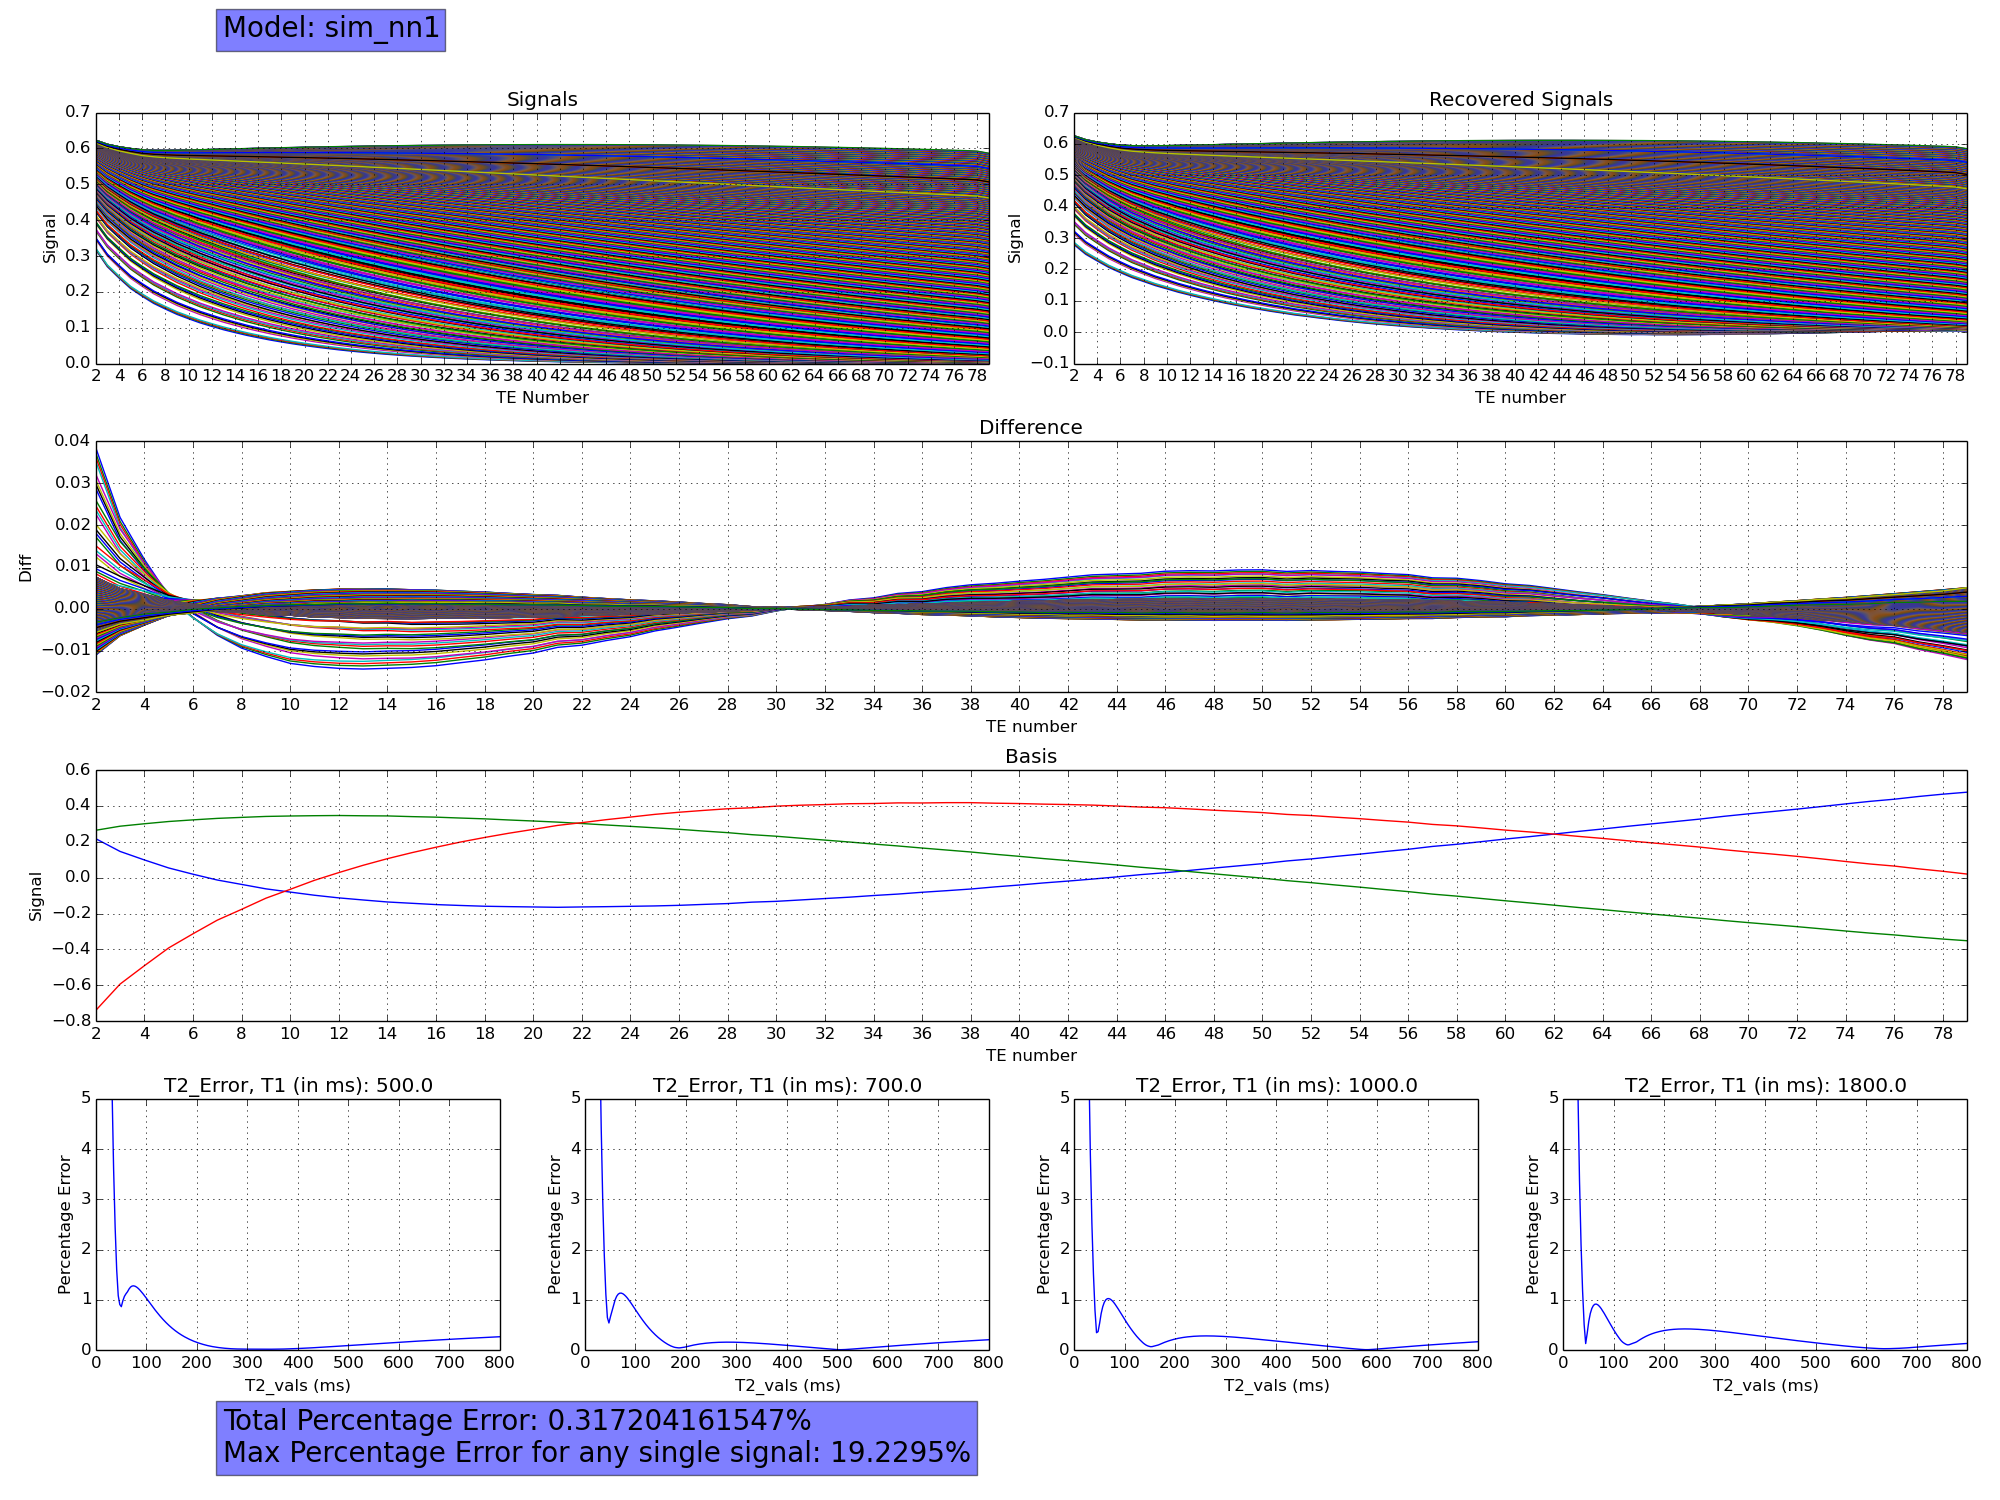
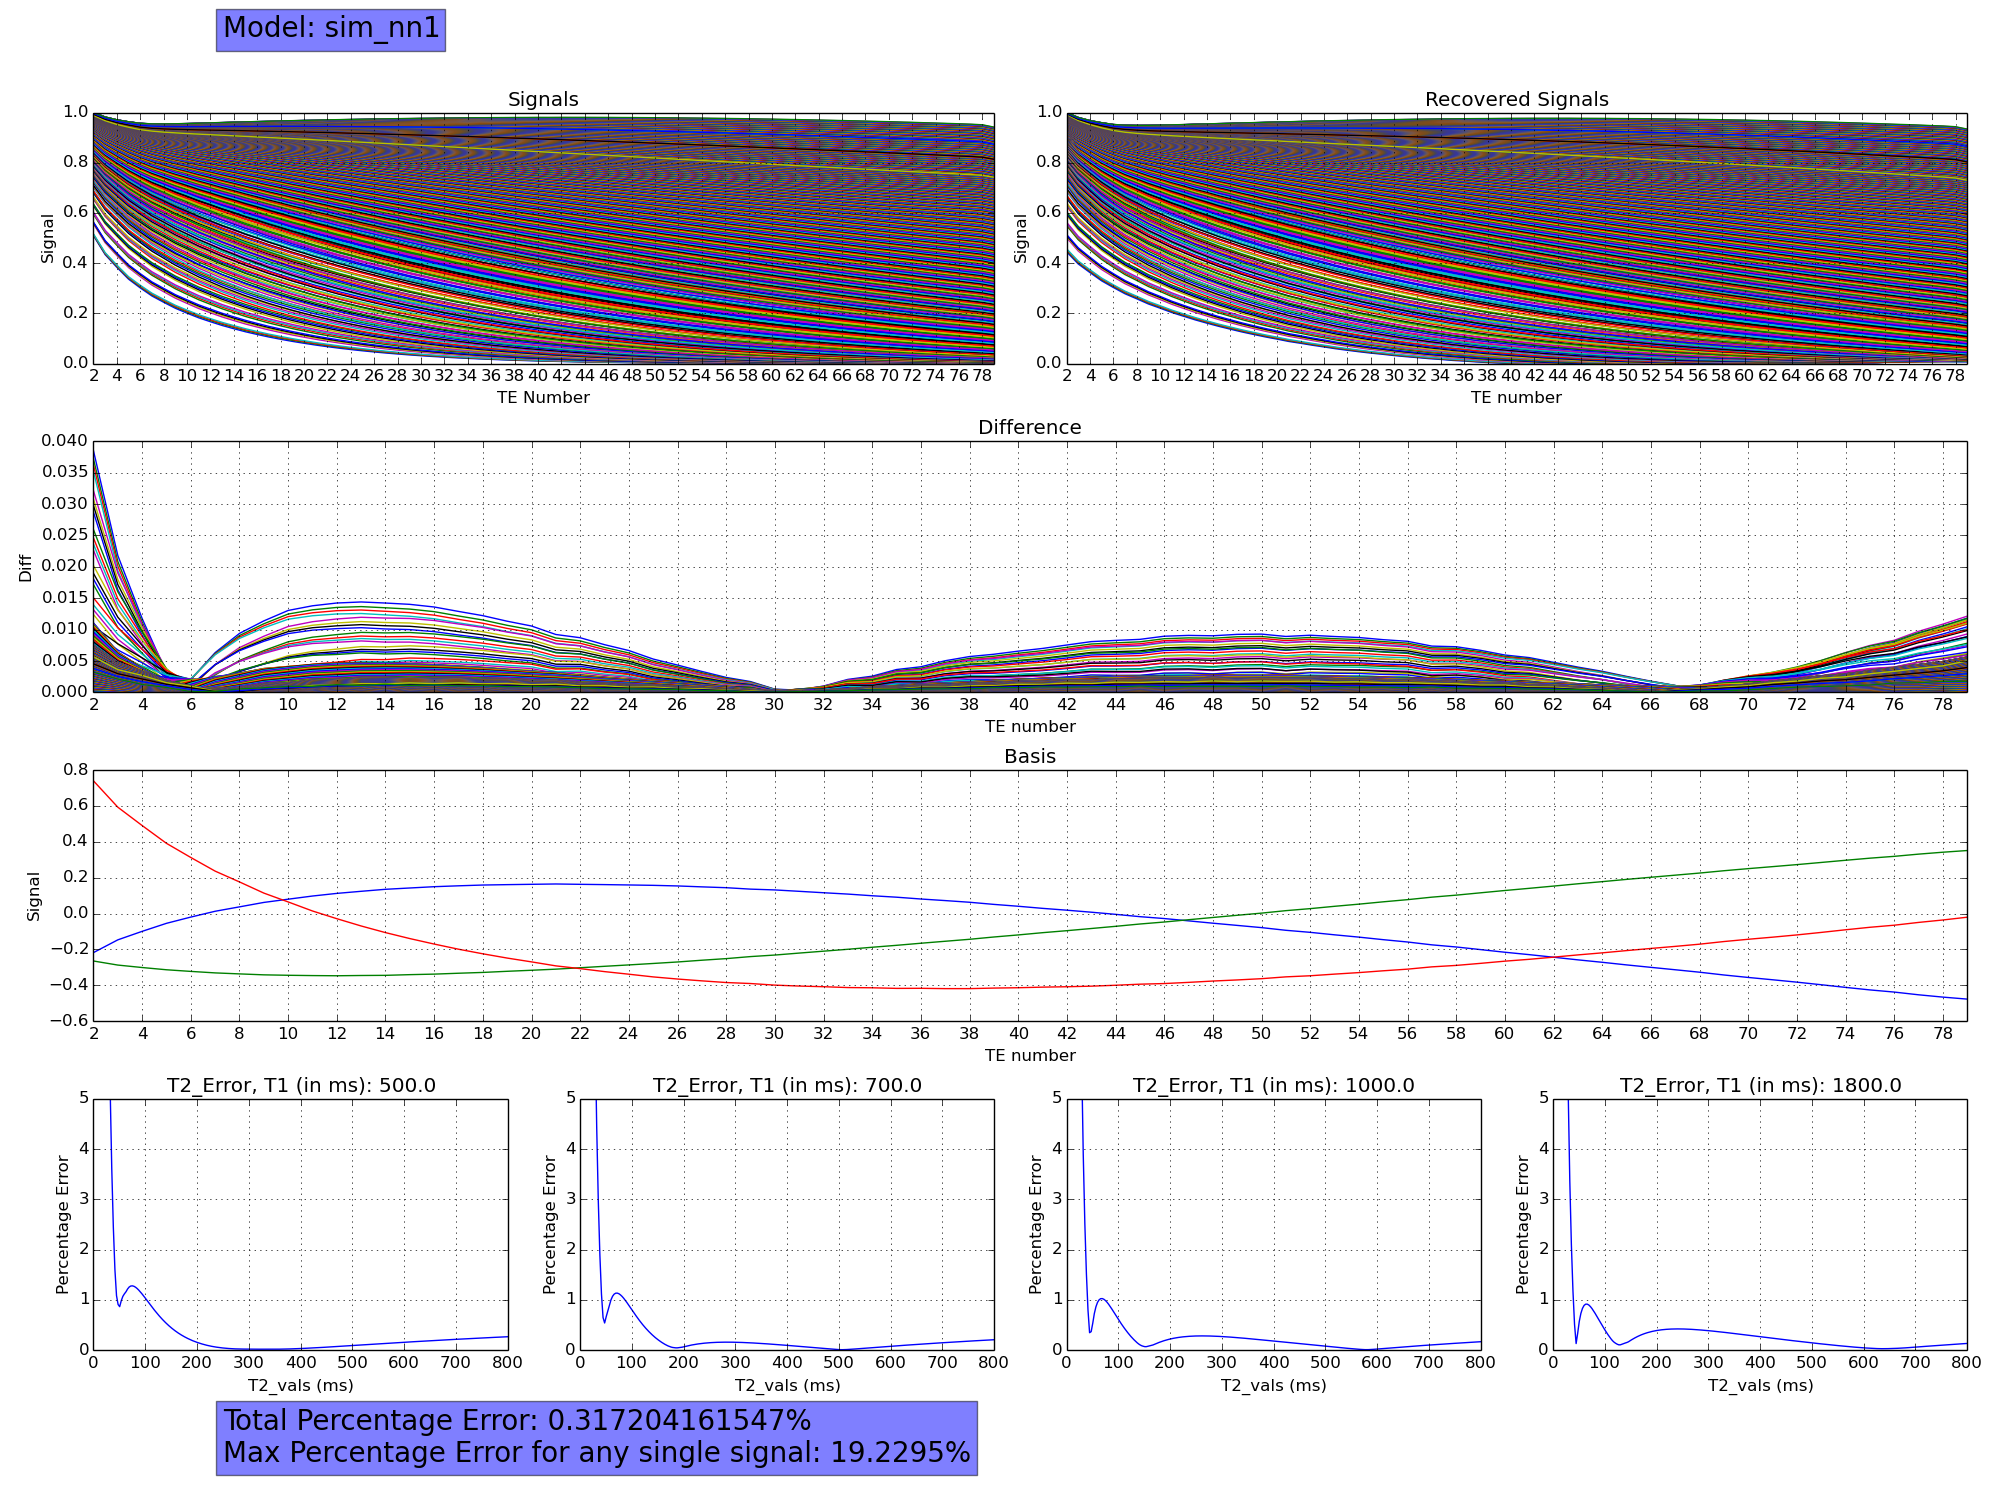
most things done from the todolist

diff --git a/src/plot.py b/src/plot.py
@@ -28,6 +28,8 @@ def mksv_plot(ax, data, title, xlabel, ylabel, xstart=0, ylim=None, other_label=
     ax.set_title(title)
     ax.set_xlabel(xlabel)
     ax.set_ylabel(ylabel)
+    if ylim:
+      ax.set_ylim(ylim)
   elif type(data) == tuple:
     assert len(data) >= 3 and type(ax == list)
     x, t, y = [list(matrix_to_1Darray(elm)) for elm in data]
@@ -52,10 +54,10 @@ def plot_simulation(U, k, X, X_hat, model_name, T1vals, T2vals, e2s, path):
   ax3 = plt.subplot2grid((4, span), (1,0), colspan=span)
   ax4 = plt.subplot2grid((4, span), (2,0), colspan=span)
   ax5 = [plt.subplot2grid((4, span), (3, i)) for i in range(span)]
-  mksv_plot(ax1, X, 'Signals', 'TE Number', 'Signal', xstart=e2s)
-  mksv_plot(ax2, X_hat, 'Recovered Signals', 'TE number', 'Signal', xstart=e2s)
-  mksv_plot(ax3, X-X_hat, 'Difference', 'TE number', 'Diff', xstart=e2s)
-  mksv_plot(ax4, U[:, :k], 'Basis', 'TE number', 'Signal', xstart=e2s)
+  mksv_plot(ax1, X/np.max(X), 'Signals', 'TE Number', 'Signal', xstart=e2s, ylim=[0, 1])
+  mksv_plot(ax2, X_hat/np.max(X_hat), 'Recovered Signals', 'TE number', 'Signal', xstart=e2s, ylim=[0, 1])
+  mksv_plot(ax3, abs(X-X_hat), 'Difference', 'TE number', 'Diff', xstart=e2s)
+  mksv_plot(ax4, -U[:, :k], 'Basis', 'TE number', 'Signal', xstart=e2s)
   mksv_plot(ax5, (T2vals * 1000, T1vals * 1000, pnorm), 'T2_Error', 'T2_vals (ms)', 'Percentage Error', other_label="T1 (in ms): ", ylim=[0,5])
   fig.tight_layout()
   plt.subplots_adjust(top=0.925, bottom=0.1)
@@ -69,14 +71,20 @@ def plot_cfl_signals(U, k, X, X_hat, model_name, e2s, path):
   half = 1
   pnorm, fro_perc_err = get_metric(X, X_hat, disp=False)
   fig = plt.figure(figsize=img_size)
-  ax1 = plt.subplot2grid((3, span), (0,0), colspan=half)
-  ax2 = plt.subplot2grid((3, span), (0,half), colspan=half)
-  ax3 = plt.subplot2grid((3, span), (1,0), colspan=span)
-  ax4 = plt.subplot2grid((3, span), (2,0), colspan=span)
-  mksv_plot(ax1, X/np.max(X), 'Signals ', 'TE Number', 'Signal', xstart=e2s)
-  mksv_plot(ax2, X_hat/np.max(X_hat), 'Recovered Signals', 'TE number', 'Signal', xstart=e2s)
+  ax1 = plt.subplot2grid((4, span), (0,0), colspan=half)
+  ax2 = plt.subplot2grid((4, span), (0,half), colspan=half)
+  ax3 = plt.subplot2grid((4, span), (1,0), colspan=span)
+  ax4 = plt.subplot2grid((4, span), (2,0), colspan=span)
+  ax5 = plt.subplot2grid((4, span), (3,0), colspan=span)
+  mksv_plot(ax1, X/np.max(X), 'Signals ', 'TE Number', 'Signal', xstart=e2s, ylim=[0, 1])
+  mksv_plot(ax2, X_hat/np.max(X_hat), 'Recovered Signals', 'TE number', 'Signal', xstart=e2s, ylim=[0, 1])
   mksv_plot(ax3, abs(X-X_hat), 'Difference (Abs)', 'TE number', 'Diff', xstart=e2s)
-  mksv_plot(ax4, U[:, :k], 'Basis', 'TE number', 'Signal', xstart=e2s)
+  mksv_plot(ax4, -U[:, :k], 'Basis', 'TE number', 'Signal', xstart=e2s)
+
+  n_idx = np.argsort(np.linalg.norm(X, ord=1, axis=0))
+  diff  = np.matrix(pnorm[n_idx]).T
+  mksv_plot(ax5, diff, "Percentage error - Increasing norm", "TE Number", "Perc Error", xstart=e2s, ylim=[0, 25])
+
   fig.tight_layout()
   plt.subplots_adjust(top=0.925, bottom=0.1)
   fig.text(0.1115, 0.025, "Total Percentage Error: " + str(fro_perc_err) + \
